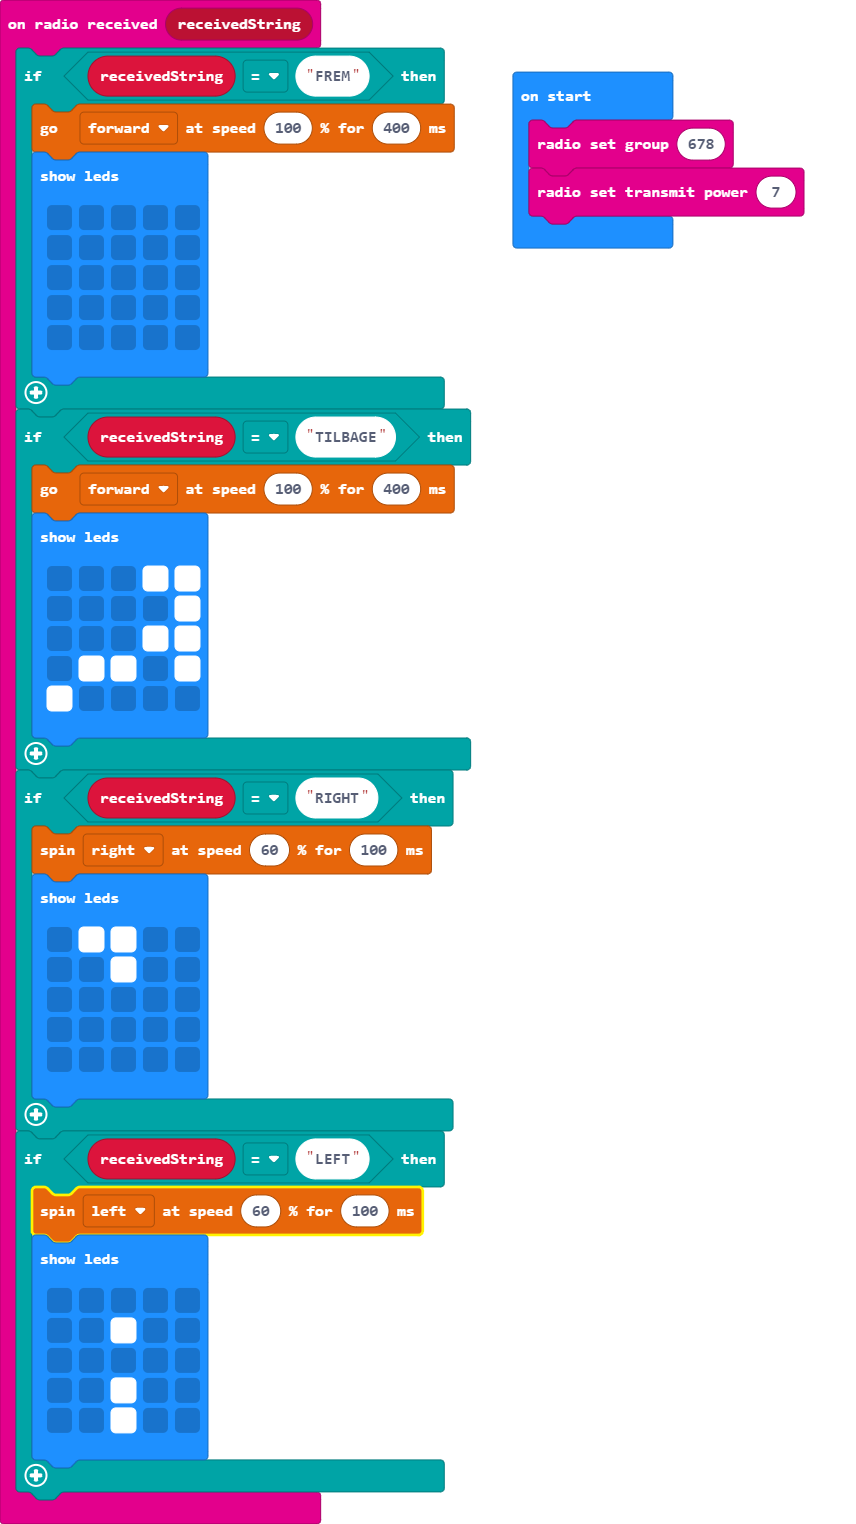
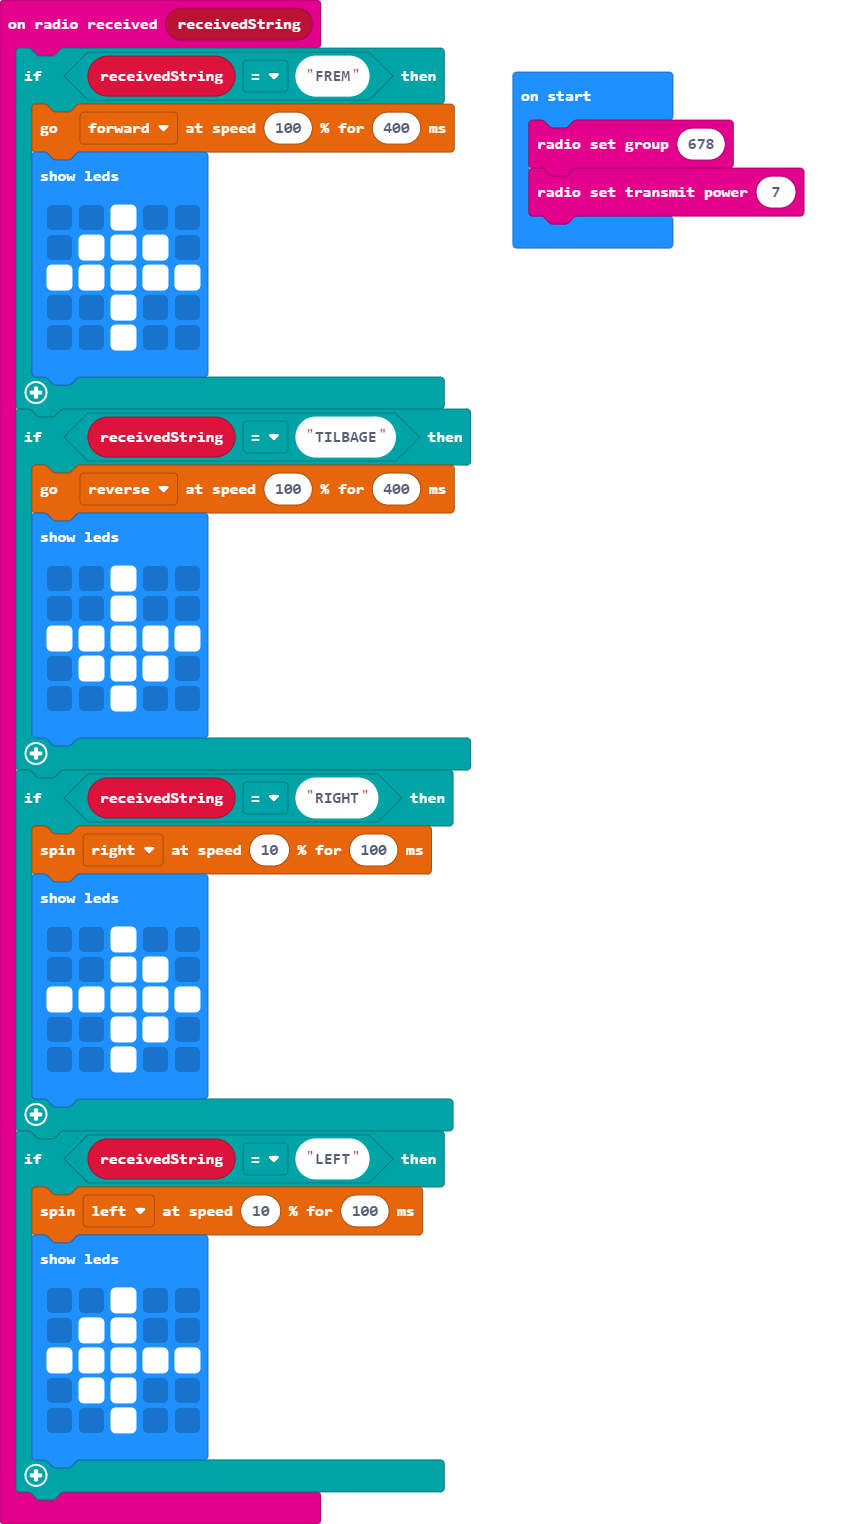
Update main.blocks, main.ts

diff --git a/main.ts b/main.ts
@@ -2,40 +2,40 @@ radio.onReceivedString(function (receivedString) {
     if (receivedString == "FREM") {
         bitbot.goms(BBDirection.Forward, 100, 400)
         basic.showLeds(`
-            . . . . .
-            . . . . .
-            . . . . .
-            . . . . .
-            . . . . .
+            . . # . .
+            . # # # .
+            # # # # #
+            . . # . .
+            . . # . .
             `)
     }
     if (receivedString == "TILBAGE") {
-        bitbot.goms(BBDirection.Forward, 100, 400)
+        bitbot.goms(BBDirection.Reverse, 100, 400)
         basic.showLeds(`
-            . . . # #
-            . . . . #
-            . . . # #
-            . # # . #
-            # . . . .
+            . . # . .
+            . . # . .
+            # # # # #
+            . # # # .
+            . . # . .
             `)
     }
     if (receivedString == "RIGHT") {
-        bitbot.rotatems(BBRobotDirection.Right, 60, 100)
+        bitbot.rotatems(BBRobotDirection.Right, 10, 100)
         basic.showLeds(`
-            . # # . .
             . . # . .
-            . . . . .
-            . . . . .
-            . . . . .
+            . . # # .
+            # # # # #
+            . . # # .
+            . . # . .
             `)
     }
     if (receivedString == "LEFT") {
-        bitbot.rotatems(BBRobotDirection.Left, 60, 100)
+        bitbot.rotatems(BBRobotDirection.Left, 10, 100)
         basic.showLeds(`
-            . . . . .
             . . # . .
-            . . . . .
-            . . # . .
+            . # # . .
+            # # # # #
+            . # # . .
             . . # . .
             `)
     }
